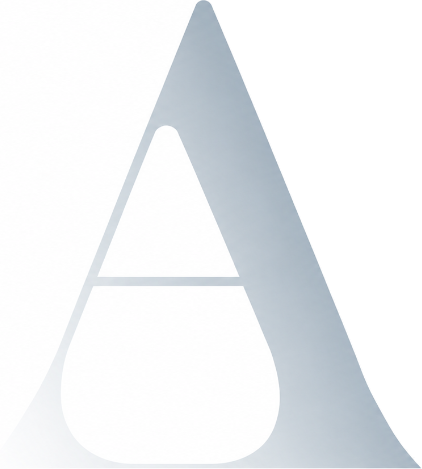
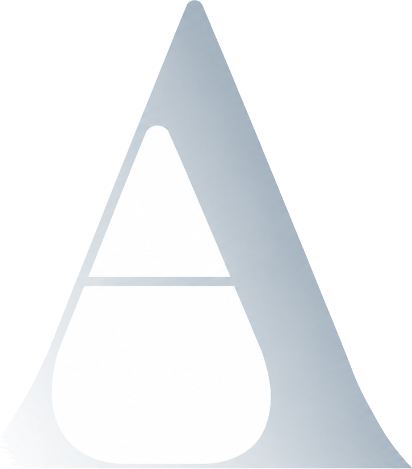
fix(what-we-do): remove white diagonal line, clean single split transition, seamless top tab, and eliminate right text overlap

diff --git a/src/app/page.tsx b/src/app/page.tsx
@@ -351,12 +351,12 @@ export default function Home() {
             {/* Right Side Primary Blue Background */}
             <polygon points="533,0 1000,0 1000,400 697,400" fill="#2684be" />
 
-            {/* 3D Semi-transparent 'A' Graphic with Drop Shadow */}
-            <image href="/what-we-do-a.png" x="348" y="20" width="344" height="380" preserveAspectRatio="none" />
+            {/* 3D Semi-transparent 'A' Graphic on Single Clean Split */}
+            <image href="/what-we-do-a.png" x="375" y="20" width="334" height="380" preserveAspectRatio="none" />
 
-            {/* Top Left Dark Banner (#194866) and Sharp Diagonal Divider Stripe */}
+            {/* Top Left Dark Banner (#194866) connecting seamlessly to the diagonal split */}
             <path
-              d="M 0,0 L 503,0 C 520,0 531,6 535,16 L 697,400 L 685,400 L 550,51 Q 539,51 518,51 L 0,51 Z"
+              d="M 0,0 L 533,0 L 554,52 Q 538,52 518,52 L 0,52 Z"
               fill="#194866"
             />
           </svg>
@@ -389,7 +389,7 @@ export default function Home() {
           </div>
 
           {/* Right Column (From Complex Portfolio Valuations...) */}
-          <div className="lg:col-span-5 flex flex-col justify-center px-8 sm:px-12 lg:pl-16 lg:pr-20 py-16 lg:py-24 text-white bg-primary lg:bg-transparent">
+          <div className="lg:col-span-5 flex flex-col justify-center px-8 sm:px-12 lg:pl-32 xl:pl-40 lg:pr-8 py-16 lg:py-24 text-white bg-primary lg:bg-transparent">
             <div className="font-avenir font-normal text-xs sm:text-sm lg:text-[13px] uppercase tracking-[0.18em] leading-[2.1] text-white lg:max-w-[400px]">
               <span className="block">FROM COMPLEX PORTFOLIO</span>
               <span className="block">VALUATIONS TO STRATEGIC</span>
